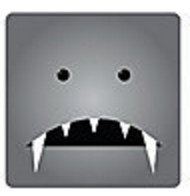
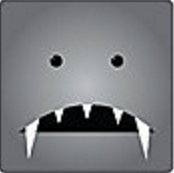
fixed new monster pics; added all edited files

diff --git a/js/app.js b/js/app.js
@@ -5,11 +5,21 @@ $(document).ready(function () {
   }, function () {
     $(this).css("text-decoration", "none");
   });
-
+//
+// AT LOAD
 swal({
-  title: "Welcome to <span style'color:brown'>switchIt</span>!",
-  text: "Switch your key piece with pieces on the board in order to match monsters across an entire row or column to get points.",
+  title: "switchIt!",
+  subtitle: "Switch your key piece with pieces on the board",
+  text: "Match monsters across an entire row or column to get points!",
   html: true
+});
+// INFO BUTTON
+$("#button").click(function() {
+  console.log("click");
+  swal({
+    title: "This is your switch piece!",
+    text: "Switch this piece with one on the board to match a row or column and win points!"
+  });
 });
 //
 // setTimeout(function() {
@@ -40,7 +50,19 @@ var monstersObjArray = [
   {
     symbol: "Z",
     cssClass: "red"
-  }
+  },
+  {
+    symbol: "T",
+    cssClass: "blue2"
+  },
+  {
+    symbol: "P",
+    cssClass: "yellow2"
+  },
+  {
+    symbol: "L",
+    cssClass: "gray2"
+  },
 ];
 // reference array for level properties
 var levelObjArray = [
@@ -57,7 +79,7 @@ var levelObjArray = [
     level: 1,
     boxNumber: 4,
     maxMoves: 24,
-    scoreGoal: 6000,
+    scoreGoal: 4000,
     pointsVal: 100,
     maxMonsters: 5,
     danger: null
@@ -66,16 +88,43 @@ var levelObjArray = [
     level: 2,
     boxNumber: 5,
     maxMoves: 28,
-    scoreGoal: 4500,
+    scoreGoal: 5000,
     pointsVal: 100,
     maxMonsters: 5,
+    danger: null
+  },
+  {
+    level: 3,
+    boxNumber: 3,
+    maxMoves: 20,
+    scoreGoal: 3000,
+    pointsVal: 100,
+    maxMonsters: 6,
+    danger: null
+  },
+  {
+    level: 4,
+    boxNumber: 4,
+    maxMoves: 24,
+    scoreGoal: 4000,
+    pointsVal: 100,
+    maxMonsters: 7,
+    danger: null
+  },
+  {
+    level: 5,
+    boxNumber: 5,
+    maxMoves: 28,
+    scoreGoal: 5000,
+    pointsVal: 100,
+    maxMonsters: 8,
     danger: null
   }
 ];
 //
-var currentLevel = 0;
+var currentLevel = 4;
 var numberOfMonsters = levelObjArray[currentLevel].maxMonsters;
-var levelsArray = [3, 4, 5]; // might refactor to use levelObjArray
+var levelsArray = [3, 4, 5, 3, 4, 5]; // might refactor to use levelObjArray
 console.log("nMon:", numberOfMonsters);
 //
 // relates to event listeners
@@ -157,12 +206,11 @@ function switchPiece(row, col) {
   // set currentSwitchPiece to gameboard obj data
   currentSwitchPiece = gameArray[row][col];
   // update HTML classes to remove old class and add new cssClass
-  $("#switch-piece").removeClass();
-  $("#switch-piece").addClass(currentSwitchPiece.cssClass);
+  $("#switch-piece").removeClass().addClass(currentSwitchPiece.cssClass);
   // set gameboard obj to tempSwitchPiece data
   gameArray[row][col] = tempSwitchPiece;
   // update addClass UI to show new cssClass
-  $("#idx" + row + col + "").removeClass(currentSwitchPiece.cssClass);
+  $("#idx" + row + col + "").removeClass().addClass("box");
   $("#idx" + row + col + "").addClass(gameArray[row][col].cssClass);
 }
 //
@@ -229,8 +277,8 @@ function handleMatchResults (array) {
   for (var i = 0; i < maxSize; i++) {
     var x = array[i].charAt(3);
     var y = array[i].charAt(4);
-    $("#" + array[i]).removeClass(gameArray[x][y].cssClass);
-    $("#" + array[i]).addClass("score");
+    $("#" + array[i]).removeClass();
+    $("#" + array[i]).addClass("box score");
     console.log("array[i]:", array[i]);
     // $("#" + array[i]).switchClass(gameArray[x][y].cssClass, "score", 5000, "easeInOutQuad");
   }
@@ -253,7 +301,6 @@ function checkForMatches() {
     levelUp();
     resetGame();
     runGame();
-    console.log("score:", score);
   } else if (maxMoves <= 0) {
     swal("Sorry! You ran out of moves!");
     resetGame();
@@ -287,7 +334,7 @@ function clearWinners (array) {
     // add monster to gameArray at index
     gameArray[x][y] = localMonsterObj;
     // update gameboard with new monster
-    $("#" + e).removeClass("score");
+    $("#" + e).removeClass().addClass("box");
     $("#" + e).addClass(localMonsterObj.cssClass);
   });
   // checkForDups();
@@ -296,12 +343,15 @@ function clearWinners (array) {
 // LEVEL UP
 function levelUp() {
   console.log("LevelUpBefore:", currentLevel)
-  if (currentLevel < (levelsArray.length - 2))  {
+  if (currentLevel < (levelsArray.length - 1))  {
     currentLevel++;
+  } if (currentLevel === 3) {
+    swal("Let's try something harder...");
   } else if (currentLevel === (levelsArray.length - 1)) {
     swal("That's all for now...");
     currentLevel = 0;
   }
+  console.log("levelUpAfter:", currentLevel);
 }
 // RESET GAME
 function resetGame() {
@@ -316,9 +366,8 @@ function resetGame() {
   scoreGoal = levelObjArray[currentLevel].scoreGoal;
   $("#goal").text(scoreGoal);
   pointsVal = levelObjArray[currentLevel].pointsVal;
-  var score = 0;
+  score = 0;
   $("#score").text(score);
-  console.log("resetScore:", score);
   var userLevel = currentLevel + 1;
   $("#level").text(userLevel);
   //
@@ -328,12 +377,11 @@ function resetGame() {
     "scoreGoal:", scoreGoal,
     "score:", score,
     "gameOn:", gameOn,
-    "noMon:", numberOfMonsters);
+    "noMon:", numberOfMonsters,
+    "currentLevel:", currentLevel);
 }
 //
-// EVENT LISTENERS
-// !! add function to make event listeners not work if board is not playable
-// add click listeners - create fct parameters i, k
+//  **EVENT LISTENERS**
 //
 // RUN GAME
 function runGame () {
@@ -356,15 +404,3 @@ function runGame () {
 runGame();
 //
 }); // End Ready
-
-// $( "button" ).on( "click", function() {
-//   $( "p" ).append( "Started..." );
-
-//   $( "div" ).each(function( i ) {
-//     $( this ).fadeIn().fadeOut( 1000 * ( i + 1 ) );
-//   });
-
-//   $( "div" ).promise().done(function() {
-//     $( "p" ).append( " Finished! " );
-//   });
-// });

diff --git a/index.html b/index.html
@@ -13,6 +13,7 @@
     <div class="switch-card">
       <div id="switch-piece">
       </div>
+      <div><button class="button" id="button">?</button></div>
     </div>
     <div class="score-board">
       <h4>Goal: <span class="goal" id="goal"></span></h4>
@@ -24,7 +25,7 @@
       <p class="game-input" id="moves"></p>
     </div>
     <div class="level">
-      <h4>Level : <span class="game-input" id="level"></span></h4>
+      <h4>Level: <span class="game-input" id="level"></span></h4>
     </div>
   </div>
   <div class="game-board" id="board">
